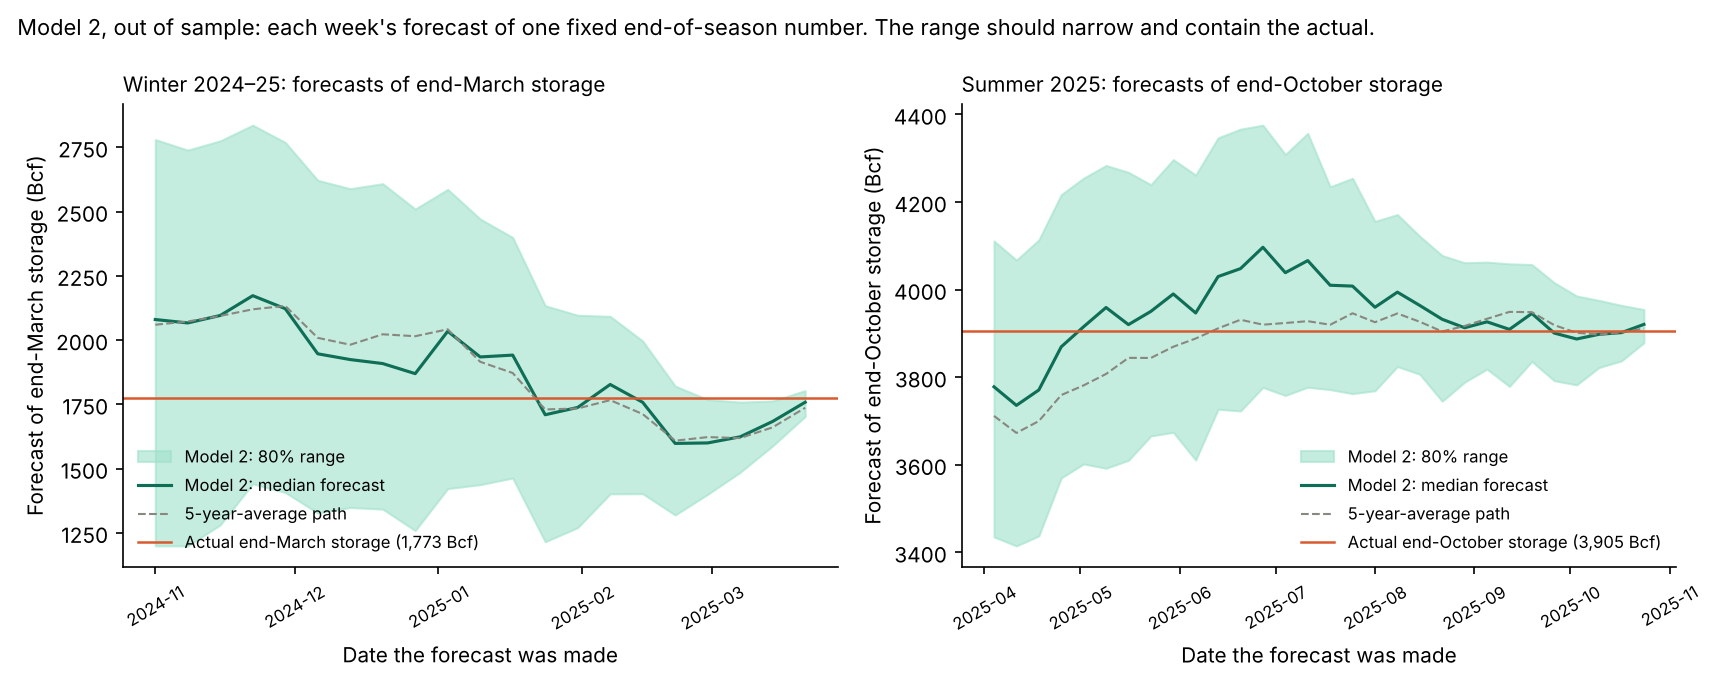
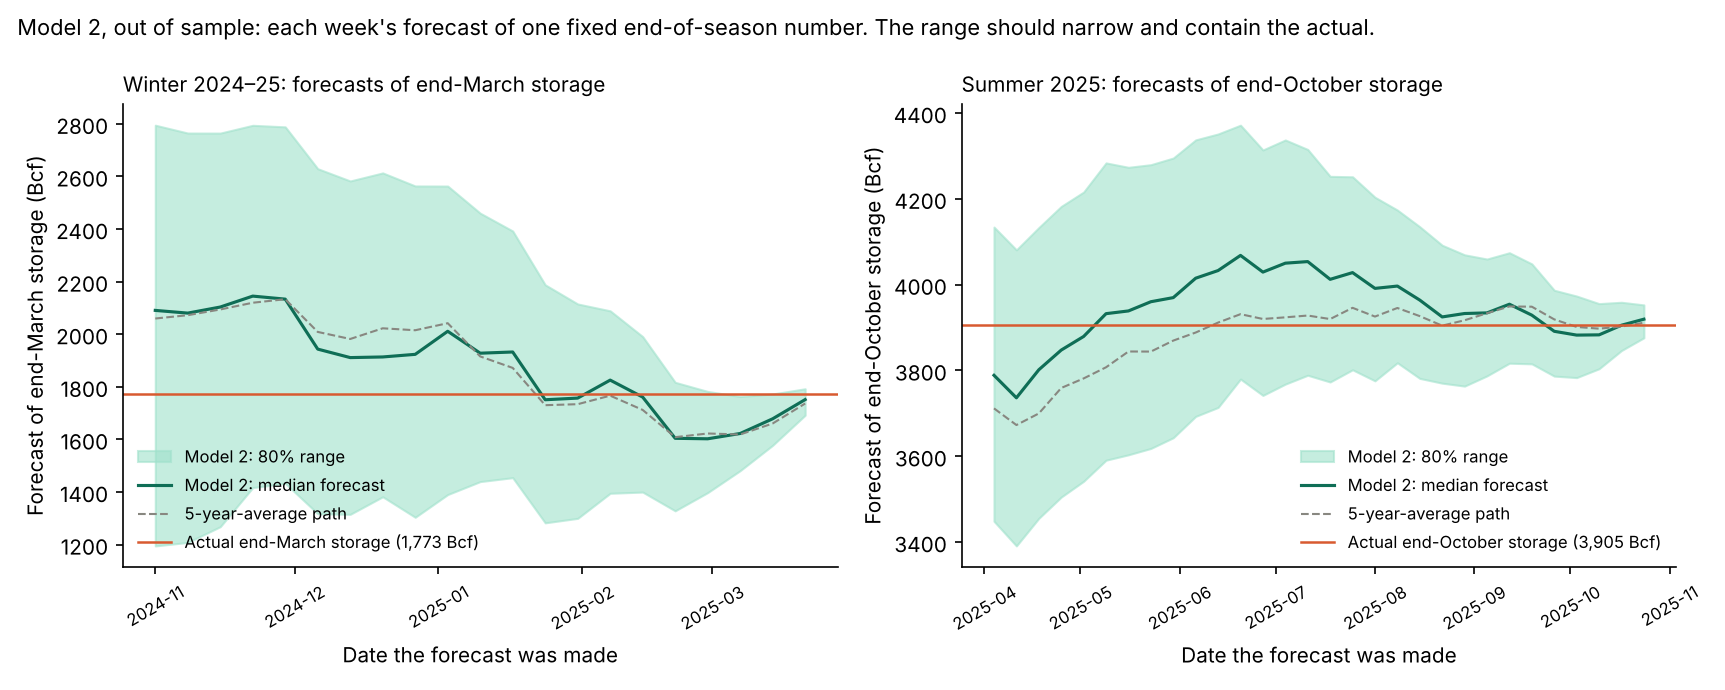
Housekeeping: unambiguous live-log columns, README and reports guide, archive superseded results, simpler run commands
Claude-Session: https://claude.ai/code/session_01K58r6NjGjQ3upEwF6Et9KU

diff --git a/src/live.py b/src/live.py
@@ -1,16 +1,20 @@
-"""Weekly live forecast of the EIA storage change, published before the release.
+"""Weekly live forecast of the EIA storage change, logged before the release.
 
-EIA publishes the storage change for the week ending last Friday on Thursday at 10:30
-New York time (21:00 IST in winter, 20:00 IST in summer). Run this before then:
+What is forecast: the CHANGE in Lower-48 working gas storage (Bcf) for the week EIA
+reports next (positive = net injection, negative = net withdrawal). EIA publishes it on
+Thursday at 10:30 New York time (Wednesday in some holiday weeks).
 
+Runs unattended: .github/workflows/live_forecast.yml calls `python -m src.live auto`
+every Wednesday 12:00 UTC (refresh storage -> score last week -> forecast this week).
+Manual use:
     python -m src.live forecast            # forecast the next unreported week
-    python -m src.live score               # after release: fill in actuals
+    python -m src.live score               # fill in actuals once EIA has reported
+    python -m src.live add-storage 2026-11-13 3900   # add a reported level by hand
 
-Weather for the recent days comes from Open-Meteo's forecast API (`past_days`), because
-its archive lags by about five days. That source is model analysis rather than the
-reanalysis used in training; the difference is logged per forecast.
-Storage: refresh data/raw/storage.csv each week (EIA bulk file via src.fetch.from_bulk),
-or add the latest level by hand with `python -m src.live add-storage 2026-11-13 3900`.
+Weather for the most recent days comes from Open-Meteo's forecast API (`past_days`),
+because its archive lags by about five days. It is a model analysis rather than the
+reanalysis used in training; each row records which source was used.
+Column meanings: reports/README.md.
 """
 import sys
 import time
@@ -27,8 +31,10 @@ from src.model1 import FEATURES_V2, build_features, load_raw, ridge
 ROOT = Path(__file__).resolve().parents[1]
 LOG = ROOT / "reports/live_forecasts.csv"
 ALPHA = 0.1  # chosen on 2018-2021 (protocol.md); frozen for live use
-COLS = ["forecast_made_utc", "week_ending", "forecast_bcf", "lo80_bcf", "hi80_bcf",
-        "five_year_avg_bcf", "hdd", "cdd", "weather_source", "actual_bcf", "miss_bcf"]
+COLS = ["forecast_made_utc", "week_ending", "forecast_change_bcf", "lo80_change_bcf", "hi80_change_bcf",
+        "five_year_avg_change_bcf", "prior_week_level_bcf", "forecast_level_bcf", "hdd", "cdd",
+        "weather_source", "model", "actual_change_bcf", "miss_bcf", "note"]
+MODEL_NAME = "Model 1 v3 (ridge)"
 
 
 def recent_weather(days=16) -> pd.DataFrame:
@@ -101,19 +107,22 @@ def forecast(daily=None, now=None):
     err = (wf["actual"] - wf[col]).dropna()
     lo, hi = point + err.quantile(0.1), point + err.quantile(0.9)
 
+    prior = float(s["storage_bcf"].iloc[-1])
     row = {"forecast_made_utc": pd.Timestamp(now).strftime("%Y-%m-%d %H:%M"),
-           "week_ending": target.date().isoformat(), "forecast_bcf": round(point),
-           "lo80_bcf": round(lo), "hi80_bcf": round(hi),
-           "five_year_avg_bcf": round(float(df.loc[target, "chg_5y"])),
-           "hdd": dd["hdd"], "cdd": dd["cdd"], "weather_source": source,
-           "actual_bcf": np.nan, "miss_bcf": np.nan}
-    log = pd.read_csv(LOG) if LOG.exists() else pd.DataFrame(columns=COLS)
+           "week_ending": target.date().isoformat(), "forecast_change_bcf": round(point),
+           "lo80_change_bcf": round(lo), "hi80_change_bcf": round(hi),
+           "five_year_avg_change_bcf": round(float(df.loc[target, "chg_5y"])),
+           "prior_week_level_bcf": round(prior), "forecast_level_bcf": round(prior + point),
+           "hdd": dd["hdd"], "cdd": dd["cdd"], "weather_source": source, "model": MODEL_NAME,
+           "actual_change_bcf": np.nan, "miss_bcf": np.nan, "note": ""}
+    log = pd.read_csv(LOG, keep_default_na=False, na_values=[""]) if LOG.exists() else pd.DataFrame(columns=COLS)
     if (log["week_ending"] == row["week_ending"]).any():
         raise ValueError(f"A forecast for {row['week_ending']} is already logged; not overwriting")
     pd.concat([log, pd.DataFrame([row])], ignore_index=True)[COLS].to_csv(LOG, index=False)
-    print(f"Week ending {row['week_ending']}: forecast {row['forecast_bcf']:+d} Bcf "
-          f"(80% range {row['lo80_bcf']:+d} to {row['hi80_bcf']:+d}); "
-          f"5-year average {row['five_year_avg_bcf']:+d}; HDD {dd['hdd']}, CDD {dd['cdd']} [{source}]")
+    print(f"Week ending {row['week_ending']}: storage change forecast {row['forecast_change_bcf']:+d} Bcf "
+          f"(80% range {row['lo80_change_bcf']:+d} to {row['hi80_change_bcf']:+d}; "
+          f"5-year average {row['five_year_avg_change_bcf']:+d}), "
+          f"implied level {row['forecast_level_bcf']:,} Bcf; HDD {dd['hdd']}, CDD {dd['cdd']} [{source}]")
     return row
 
 
@@ -134,14 +143,16 @@ def score():
     log = pd.read_csv(LOG)
     for i, r in log.iterrows():
         t = pd.Timestamp(r.week_ending)
-        if pd.isna(r.actual_bcf) and t in chg.index:
-            log.loc[i, "actual_bcf"] = chg[t]
-            log.loc[i, "miss_bcf"] = chg[t] - r.forecast_bcf
+        if pd.isna(r.actual_change_bcf) and t in chg.index:
+            log.loc[i, "actual_change_bcf"] = chg[t]
+            log.loc[i, "miss_bcf"] = chg[t] - r.forecast_change_bcf
     log.to_csv(LOG, index=False)
-    done = log.dropna(subset=["actual_bcf"])
+    done = log.dropna(subset=["actual_change_bcf"])
     if len(done):
-        print(done[["week_ending", "forecast_bcf", "lo80_bcf", "hi80_bcf", "actual_bcf", "miss_bcf"]].to_string(index=False))
-        inside = ((done.actual_bcf >= done.lo80_bcf) & (done.actual_bcf <= done.hi80_bcf)).mean()
+        print(done[["week_ending", "forecast_change_bcf", "lo80_change_bcf", "hi80_change_bcf",
+                    "actual_change_bcf", "miss_bcf"]].to_string(index=False))
+        inside = ((done.actual_change_bcf >= done.lo80_change_bcf)
+                  & (done.actual_change_bcf <= done.hi80_change_bcf)).mean()
         print(f"Live record: {len(done)} weeks, MAE {done.miss_bcf.abs().mean():.1f} Bcf, "
               f"inside 80% range {100 * inside:.0f}%")
 

diff --git a/src/fetch.py b/src/fetch.py
@@ -1,14 +1,15 @@
-"""Download raw data from the original free sources.
+"""Download the raw inputs from free public sources.
 
-Run this on your own machine or Colab (the sources are public; EIA needs a free API key
-from https://www.eia.gov/opendata/register.php, set as the EIA_API_KEY env variable).
+Storage and EIA futures (no key needed): download NG.zip from
+https://www.eia.gov/opendata/bulkfiles.php, unzip NG.txt, then
+    python -c "from src.fetch import from_bulk; from_bulk('NG.txt')"
+The weekly GitHub Action does this automatically (src/live.py: refresh_storage_from_eia_bulk).
 
-    python -m src.fetch storage
-    python -m src.fetch weather
-    python -m src.fetch futures
+Weather (Open-Meteo archive, no key; resumable under its rate limits):
+    python -c "from src.fetch import fetch_weather, weekly_degree_days; weekly_degree_days(fetch_weather())"
 
-NOTE: written against the documented endpoints but not yet run end-to-end
-(the build machine could not reach eia.gov / open-meteo.com). Check the first pull by eye.
+Older helpers fetch_storage (EIA API, needs EIA_API_KEY) and fetch_eia_futures (EIA xls)
+are kept as alternatives. Contract-level futures prices: src/prices.py (Databento).
 """
 import os
 import sys

diff --git a/src/model2.py b/src/model2.py
@@ -298,11 +298,9 @@ if __name__ == "__main__":
     if len(sys.argv) > 1 and sys.argv[1] == "live":
         live_end_of_season()
         sys.exit()
-    tag = sys.argv[1] if len(sys.argv) > 1 else "v1"
-    bt = backtest()
+    # python -m src.model2          -> current backtest (v2b: 200 miss paths, origins from Nov 2016)
+    # python -m src.model2 live     -> log a live end-of-season forecast
+    tag, start = "v2b_from2016", pd.Timestamp("2016-11-01")
+    bt = backtest(start=start)
     bt.to_csv(ROOT / f"data/processed/model2_backtest_{tag}.csv", index=False)
-    print(summarize(bt).to_string())
-    nr = backtest(with_resid=False)
-    nr.to_csv(ROOT / f"data/processed/model2_backtest_{tag}_weather_only.csv", index=False)
-    print("\nWeather scenarios only (no Model 1 misses added):")
-    print(summarize(nr)[["origins", "model MAE (Bcf)", "inside 80% range (%)", "80% width (Bcf)"]].to_string())
+    print(summarize(bt[bt.origin >= VAL_START]).to_string())

diff --git a/src/model1.py b/src/model1.py
@@ -210,8 +210,10 @@ def main(features=None, tag="v1"):
 
 
 if __name__ == "__main__":
+    # python -m src.model1          -> current model (v3: holiday flag, calendar-aligned 5-yr average)
+    # python -m src.model1 v1       -> original feature set, for the record
     import sys
-    if len(sys.argv) > 1 and sys.argv[1] == "v2":
-        main(FEATURES_V2, sys.argv[2] if len(sys.argv) > 2 else "v2")
-    else:
+    if len(sys.argv) > 1 and sys.argv[1] == "v1":
         main(FEATURES, "v1")
+    else:
+        main(FEATURES_V2, "v3_own")

diff --git a/src/plots.py b/src/plots.py
@@ -37,7 +37,7 @@ def model1_holdout(tag="v3_own"):
     plt.close()
 
 
-def model2_fans(tag="v2", targets=(("2025-03-28", "Winter 2024–25"), ("2025-10-31", "Summer 2025"))):
+def model2_fans(tag="v2b_from2016", targets=(("2025-03-28", "Winter 2024–25"), ("2025-10-31", "Summer 2025"))):
     b = pd.read_csv(ROOT / f"data/processed/model2_backtest_{tag}.csv", parse_dates=["origin", "target"])
     fig, axs = plt.subplots(1, 2, figsize=(11.5, 4.6))
     for ax, (T, label) in zip(axs, targets):

diff --git a/README.md b/README.md
@@ -2,28 +2,57 @@
 
 How far up the chain **weather → weekly storage → end-of-season storage → futures spread** can free public data forecast US natural gas, out of sample?
 
-The rules are fixed in [`reports/protocol.md`](reports/protocol.md): timing, samples, benchmarks, success criteria, and a change log.
+Everything here uses public data (EIA, Open-Meteo, and later CME settlements via Databento). Every test was written down in [`reports/protocol.md`](reports/protocol.md) before its results were seen. That file also logs every change and every model version's score, including the weaker ones.
 
-## Status (17 Nov 2026)
-- **Model 1, weekly storage change:** done, v3.
-  - Out-of-sample mean absolute error is **13.8 Bcf**, against **31.3** for the 5-year average, over 253 weeks from 2022 (own data pulls).
-  - The 80% ranges cover 84.6% of outcomes.
-  - Ridge beats gradient boosting.
-- **Model 2, end-of-season storage scenarios:** v2 done.
-  - The 80% ranges are calibrated (they cover 84–90% of outcomes on the 2022+ holdout).
-  - Its central forecast beats the 5-year-average path only within about 8 weeks of season end. See the protocol.
-- **Model 3, futures spreads:** pending price data.
+## Results so far (updated 19 Nov 2026)
+**Model 1: this week's storage change, from this week's weather.** Out of sample from 2022 (253 weeks):
+
+| Forecast | Average miss (Bcf) |
+| --- | --- |
+| 5-year average | 31.3 |
+| Ridge regression | **13.8** |
+
+- Ridge's advantage over the 5-year average is 17.5 Bcf per week, with a 95% block-bootstrap interval of 11.0–24.3.
+- Its 80% ranges contained the actual 85% of the time.
+- Gradient boosting scores 14.6 Bcf. The two are **statistically tied**, so the simpler linear model is preferred.
+
+**Model 2: storage at the end of the season, as a probability range.** Model 1 is simulated forward through about 20 past years of weather, each combined with Model 1's own past errors.
+- The 80% ranges are calibrated: they covered the actual 85–93% of the time from 2022.
+- The central forecast beats the 5-year-average path only within about 8 weeks of season end. Further out, weather is unforecastable and "normal" is as good a centre as any.
+
+**Model 3: storage view vs the March–April futures spread.** The design is pre-registered. It is waiting on contract-level price data.
 
 ## Live record
-A GitHub Action ([`live_forecast.yml`](.github/workflows/live_forecast.yml)) runs every Wednesday at 12:00 UTC, before EIA's release. It refreshes storage from EIA's bulk file, scores last week's forecast, and commits this week's forecast to [`reports/live_forecasts.csv`](reports/live_forecasts.csv). The bot's commit time is the timestamp. The same run also logs Model 2's end-of-season forecast to [`reports/live_end_of_season.csv`](reports/live_end_of_season.csv).
+Every Wednesday at 12:00 UTC, before EIA's release, a [GitHub Action](.github/workflows/live_forecast.yml) does three things:
+1. It refreshes storage from EIA's bulk file.
+2. It scores last week's forecast against what EIA reported.
+3. It commits this week's forecast to [`reports/live_forecasts.csv`](reports/live_forecasts.csv), and the end-of-season forecast to [`reports/live_end_of_season.csv`](reports/live_end_of_season.csv).
 
-## Run
+The bot's commit time is the timestamp. Column meanings are in [`reports/README.md`](reports/README.md).
+
+## Repository map
+| Path | What it is |
+| --- | --- |
+| `src/fetch.py` | Downloads storage, prices (EIA bulk file) and weather (Open-Meteo) |
+| `src/model1.py` | Model 1 features, walk-forward test and scoring |
+| `src/bootstrap.py` | Confidence intervals for Model 1 |
+| `src/model2.py` | Model 2 scenario simulator, backtest and live forecast |
+| `src/live.py` | Weekly live forecast and scoring |
+| `src/prices.py` | Contract settlement prices (Databento) for Model 3 |
+| `src/plots.py` | Figures |
+| `tests/` | Checks that no forecast can see data from after its date |
+| `reports/` | Protocol, results and live records ([guide](reports/README.md)) |
+
+## Reproduce
 ```
 pip install -r requirements.txt
-python -c "from src.fetch import from_bulk; from_bulk('NG.txt')"   # EIA bulk file, no key
+python -c "from src.fetch import from_bulk; from_bulk('NG.txt')"      # EIA bulk file, no key
 python -c "from src.fetch import fetch_weather, weekly_degree_days; weekly_degree_days(fetch_weather())"
-python -m src.model1 v2 v3_own
-python -m pytest tests            # no-look-ahead checks
+python -m pytest tests          # no-look-ahead checks
+python -m src.model1            # Model 1 walk-forward (current version)
+python -m src.bootstrap         # Model 1 confidence intervals
+python -m src.model2            # Model 2 backtest
+python -m src.plots             # figures
 ```
 
 ![Model 1 holdout](reports/figures/model1_holdout.png)

diff --git a/reports/README.md b/reports/README.md
@@ -1,0 +1,46 @@
+# What's in `reports/`
+
+All storage figures are in **Bcf** (billion cubic feet) of Lower-48 working gas, as reported by EIA. A **change** is one week's net injection (positive) or net withdrawal (negative). A **level** is the total in storage at the end of a week. Typical sizes:
+- weekly changes run from about −300 to +130 Bcf
+- levels run from about 1,100 Bcf (late winter) to 4,000 Bcf (late autumn)
+
+## Live records (written by the weekly GitHub Action)
+
+### `live_forecasts.csv` — Model 1, next week's storage change
+| Column | Meaning |
+| --- | --- |
+| `forecast_made_utc` | When the forecast was made (UTC). The bot's commit is the public timestamp |
+| `week_ending` | The Friday ending the EIA storage week being forecast |
+| `forecast_change_bcf` | Forecast **change** for that week (Bcf). +7 means a 7 Bcf net injection |
+| `lo80_change_bcf`, `hi80_change_bcf` | 80% range for the change, from Model 1's past out-of-sample errors |
+| `five_year_avg_change_bcf` | Average change for the same calendar week over the previous 5 years (the naive benchmark) |
+| `prior_week_level_bcf` | Last storage **level** EIA had reported when the forecast was made |
+| `forecast_level_bcf` | Implied **level** = prior level + forecast change |
+| `hdd`, `cdd` | Gas-weighted heating / cooling degree days for the week (17 US cities) |
+| `weather_source` | `archive` = Open-Meteo reanalysis. `forecast-api past_days` = Open-Meteo's recent-days analysis, used because the archive lags about 5 days |
+| `model` | Model version that made the forecast |
+| `actual_change_bcf`, `miss_bcf` | Filled after EIA reports: actual change, and actual minus forecast |
+| `note` | Anything a reader needs to know about the row |
+
+### `live_end_of_season.csv` — Model 2, storage at the end of the season
+| Column | Meaning |
+| --- | --- |
+| `origin_week` | Latest EIA week the forecast starts from |
+| `target_week` | Last EIA week of March (end of winter) or October (end of summer) |
+| `weeks_to_go` | Weeks between origin and target |
+| `p10_bcf`, `median_bcf`, `p90_bcf` | 10th percentile, median and 90th percentile of the end-of-season **level** across the weather × error scenarios |
+| `five_year_path_bcf` | Today's level plus the 5-year-average change for every remaining week |
+| `prob_below_five_year_path` | Share of scenarios finishing below that path |
+| `n_scenarios` | Number of simulated paths |
+
+## Backtest results
+| File | Contents |
+| --- | --- |
+| `protocol.md` | Pre-registered rules, change log and results log. **Start here** |
+| `model1_holdout_v3_own.csv` | Model 1 (current) holdout scores, 2022 onward |
+| `model1_validation_v3_own.csv` | Model 1 settings compared on 2018–21 |
+| `model1_bootstrap_v3_own.csv` | Block-bootstrap confidence intervals for Model 1's advantage |
+| `figures/` | Charts used in the README and note (`python -m src.plots`) |
+| `archive/` | Results from superseded versions, kept so every logged number can be traced |
+
+Superseded backtest outputs for Model 1 v1/v2 and Model 2 v1 are in `data/processed/archive/`.

diff --git a/reports/protocol.md b/reports/protocol.md
@@ -84,7 +84,7 @@ A null result on Model 3 gets reported the same way, as a finding.
 Rows dated 2026-11-17 used development inputs cached in the HughFOD/gas-storage-nowcast repo. Rows dated 2026-11-18 use our own pulls: storage from the EIA bulk file (identical to the cached series in all 880 weeks), and degree days from Open-Meteo via `src/fetch.py` (correlation with the cached series 0.9997 for HDD and 0.998 for CDD over 1,142 weeks).
 
 ### Model 1 v2 (own data): block-bootstrap confidence intervals, holdout 2022+ (253 weeks)
-The loss differential is d_t = |benchmark miss| − |model miss|. Intervals use a moving block bootstrap with 8-week blocks and 10,000 resamples. Blocks of 1, 4, 13 and 26 weeks are in `reports/model1_bootstrap_v2_own.csv`, and the conclusions are unchanged across all of them.
+The loss differential is d_t = |benchmark miss| − |model miss|. Intervals use a moving block bootstrap with 8-week blocks and 10,000 resamples. Blocks of 1, 4, 13 and 26 weeks are in `reports/archive/model1_bootstrap_v2_own.csv`, and the conclusions are unchanged across all of them.
 
 | Comparison | Advantage (Bcf/week) | 95% CI | MAE ratio (95% CI) | Newey–West t |
 | --- | --- | --- | --- | --- |
